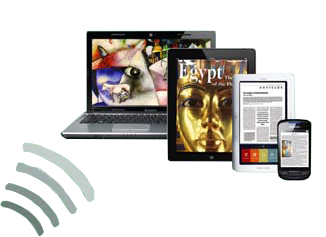
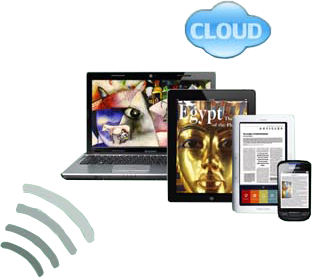
KIC_Bookeye_4_Searchable_Collections

diff --git a/Image Access Site/pages/KIC_Bookeye_4_Searchable_Collections.html b/Image Access Site/pages/KIC_Bookeye_4_Searchable_Collections.html
@@ -5,7 +5,8 @@
     <meta name="viewport" content="width=device-width, initial-scale=1">
     <title>KIC Bookeye 4 :: Image Access 2016</title>
     <link rel="stylesheet" type="text/css" href="../css/all.css">
-     <link rel="shortcut icon" type="image/x-icon" href="../images/icon.png">
+    <link rel="stylesheet" type="text/css" href="../css/kic-bookeye-4-searchable-collections.css">
+    <link rel="shortcut icon" type="image/x-icon" href="../images/icon.png">
     <script src="../js/jquery-1.12.2.min.js" type="text/javascript"></script>
     <script src="../js/include.js" type="text/javascript"></script>
 </head>
@@ -21,7 +22,8 @@
     <ul class="leftsidemenu">
         <li><a href="KIC_Bookeye_4.html">KIC Bookeye 4</a></li>
         <li><a href="KIC_Bookeye_4_Scan_Copy_Fax.html">Scan, Copy, Fax</a></li>
-        <li class="selected"><a href="KIC_Bookeye_4_Searchable_Collections.html">KIC Makes Print Collections Searchable</a></li>
+        <li class="selected"><a href="KIC_Bookeye_4_Searchable_Collections.html">KIC Makes Print Collections
+            Searchable</a></li>
         <li><a href="KIC_Bookeye_4_Beauty_Images.html">Beautiful Images – Fast and Easy</a></li>
         <li><a href="KIC_Bookeye_4_Face_Down_or_Face_Up.html">Scanning Face-Down or Face-Up</a></li>
         <li><a href="KIC_Bookeye_4_True_2_Touch.html">True 2 Touch User Interface</a></li>
@@ -36,27 +38,110 @@
 
     </ul>
     <div class="infoblock">
-        <img src="../images/JPGs%20for%20KIC%20Bookeye%204%20Brochure/KIC%20Brochure%207.png" width="" height="" alt="123">
+
         <!--<h2>KIC Makes Your Print Collections Searchable</h2>-->
         <!--<h3 style="font-style: italic;">Search hundreds of pages of PDF or text files created in just minutes using KIC-->
-            <!--Bookeye 4</h3>-->
+        <!--Bookeye 4</h3>-->
         <!--Users need only locate the volume(s) that they expect to contain the information they are seeking, scan selected-->
         <!--sections and output either a searchable PDF file or a text file.-->
         <!--These files can easily be searched for various keywords.-->
         <!--Keyword searching is becoming an indispensable capability that significantly improves the quality and efficiency-->
         <!--of researching print collections.-->
         <!--<ul>-->
-            <!--<li>Access more sources DIGITALLY</li>-->
-            <!--<li>Find information faster</li>-->
-            <!--<li>Deliver results in digital form</li>-->
-            <!--<li>Get your research in digital form</li>-->
+        <!--<li>Access more sources DIGITALLY</li>-->
+        <!--<li>Find information faster</li>-->
+        <!--<li>Deliver results in digital form</li>-->
+        <!--<li>Get your research in digital form</li>-->
         <!--</ul>-->
         <!--<h3>1) Scan selected excerpts from multiple sources in just minutes.-->
-            <!--<br>2) Output text or searchable PDF directly to a tablet, e-reader, PC, smart phone, Cloud storage, USB, or-->
-            <!--email.</h3>-->
+        <!--<br>2) Output text or searchable PDF directly to a tablet, e-reader, PC, smart phone, Cloud storage, USB, or-->
+        <!--email.</h3>-->
         <!--<img src="../images/Dlsg/KIC/Click_Page7_MainPicture.png">-->
         <!--<h3>3) Search all scanned pages in an instant for various key words and be on your way.</h3>-->
         <!--<img src="../images/Dlsg/KIC/Click_Page3_Bottom_NewsPapers.png">-->
+        <h1 class="infoblock__block-title2">KIC Makes Your Print Collections Searchable</h1>
+        <h3 class="infoblock__block-title">Search hundreds of pages of PDF or text files created in just minutes using
+            KIC Click Mini</h3>
+        <div class="infoblock__text-block">
+            <p class="block_text1" id="CCM-0303">Users need only locate the volume(s) that they expect to contain
+                the information they are seeking, scan selected sections and
+                output either a searchable PDF file or a text file. These files can
+                easily be searched for various keywords.</p>
+            <p class="block_text1" id="CCM-0304">Keyword searching is becoming an indispensable capability that
+                significantly improves the quality and efficiency of researching
+                print collections.</p>
+        </div>
+        <div class="infoblock__text-block-2">
+            <ul class="infoblock__peppermint2">
+                <li>Access more sources DIGITALLY</li>
+                <li>Find information faster</li>
+                <li>Deliver results in digital form</li>
+                <li>Get your research in digital form</li>
+            </ul>
+        </div>
+        <div>
+            <div class="infoblock__block">
+                <img class="infoblock__number"
+                     src="../images/JPGs%20for%20KIC%20Click%20&%20Click%20Mini%20Brochure/KIC Click and Click Mini Brochure3_1.png">
+                <div class="infoblock__block-1">
+                    <p class="block_text2">Scan selected excerpts from
+                        multiple sources in just minutes.</p>
+                </div>
+                <img class="infoblock__img"
+                     src="../images/JPGs%20for%20KIC%20Click%20&%20Click%20Mini%20Brochure/KIC Click and Click Mini Brochure3_devices.png">
+            </div>
+            <div class="infoblock__block">
+                <img class="infoblock__number"
+                     src="../images/JPGs%20for%20KIC%20Click%20&%20Click%20Mini%20Brochure/KIC Click and Click Mini Brochure3_2.png">
+                <div class="infoblock__block-1">
+                    <p class="block_text2">Output text or searchable PDF
+                        directly to a tablet, e-reader, PC
+                        or smart phone.</p>
+                </div>
+                <img class="infoblock__img"
+                     src="../images/JPGs%20for%20KIC%20Click%20&%20Click%20Mini%20Brochure/KIC Click and Click Mini Brochure3_images.png">
+            </div>
+        </div>
+
+        <img class="infoblock__img" id="infoblock__man_pdf"
+             src="../images/JPGs%20for%20KIC%20Click%20&%20Click%20Mini%20Brochure/KIC Click and Click Mini Brochure3_men.png">
+
+
+        <div class="infoblock__block-3">
+            <img class="infoblock__number"
+                 src="../images/JPGs%20for%20KIC%20Click%20&%20Click%20Mini%20Brochure/KIC Click and Click Mini Brochure3_3.png">
+            <div>
+                <p class="block_text2" id="CCM-0308">Search all scanned pages
+                    in an instant for various
+                    key words and...</p>
+            </div>
+        </div>
+        <div>
+            <div id="infoblock__management">
+                <h1 class="infoblock__block-title2">KIC Fleet Management</h1>
+                <h3 class="infoblock__block-title">Monitor Usage Statistics at a Glance</h3>
+                <p class="block_text23" id="BE4-0919">Control,update and monitor your KIC systems remotely. To
+                    better serve your patrons, it is important to know which KIC
+                    systems are used the most and at what times during the
+                    day and week, and which are used the least. All usage statistics
+                    can help you to determine the best KIC configuration
+                    for each site. And to make it easier to navigate from KIC to
+                    KIC system, KIC Fleet Manager allows you to select a particular
+                    KIC system via either of two methods: a map or a list.</p>
+                <p class="block_text23" id="BE4-0920">With over ten years serving libraries, KIC is the most stable
+                    product available today. However, DLSG engineers inces- santly
+                    work to improve KIC and support the growing changing
+                    digital world. DLSG offers improved software re-</p>
+                <p class="block_text23" id="BE4-0921">gularly, and in order to make it easier to deploy updates, KIC
+                    Fleet
+                    Manager lets you
+                    update KIC systems remotely. For example, a recently released feature
+                    lets you turn KIC systems on and off on demand or on a schedule set by a
+                    central control panel.</p>
+            </div>
+            <img class="infoblock__diagram"
+                 src="../images/JPGs%20for%20KIC%20Click%20&%20Click%20Mini%20Brochure/KIC Click and Click Mini Brochure3_img2.png">
+        </div>
     </div>
 </div>
 <footer>

diff --git a/Image Access Site/css/kic-bookeye-4-searchable-collections.css b/Image Access Site/css/kic-bookeye-4-searchable-collections.css
@@ -1,0 +1,79 @@
+.infoblock__block-title2{
+    font: 14px "Arial",Helvetica,Arial,Verdana,sans-serif;
+    font-size: 39px;
+    font-weight: bold;
+    color:#000000;
+    text-shadow: none;
+    text-align: center;
+}
+.infoblock__block-title{
+    font: 14px "Arial",Helvetica,Arial,Verdana,sans-serif;
+    font-style: italic;
+    font-size: 24px;
+    color:#000000;
+    text-shadow: none;
+    font-weight: normal;
+    text-align: center;
+}
+.infoblock__text-block {
+    float: left;
+    width: 55%;
+}
+.infoblock__text-block-2{
+    float: left;
+    width: 45%;
+    padding-left: 5%;
+    padding-bottom: 5%;
+}
+.infoblock .infoblock__peppermint2 {
+    list-style-image: url(../images/KIC_Click_and_Click_Mini_Brochure3_blue-bullet2.png);
+}
+div .infoblock__block {
+    padding-top: 0%;
+    float:left;
+    width: 49%;
+}
+
+.infoblock__block .infoblock__number{
+     width: auto;
+     float:left;
+ }
+.infoblock__block-3 .infoblock__number{
+    width: auto;
+    float:left;
+}
+
+.infoblock__block-1{
+    float:left;
+    width: 70%;
+
+}
+
+.block_text2{
+    padding-top: 3%;
+}
+
+.infoblock__block-3 div .block_text2{
+    width: 50%;
+    padding-top: 1%;
+}
+.infoblock .infoblock__img{
+    width: auto;
+}
+#infoblock__man_pdf{
+    padding-left: 5%;
+}
+
+.infoblock__block-3{
+    position: absolute;
+    bottom: 35%;
+
+}
+div #infoblock__management{
+    width: 50%;
+    float:left;
+}
+div .infoblock__diagram{
+    width: 45%;
+    float:left;
+}

diff --git a/Image Access Site/css/kic-bookeye-4.css b/Image Access Site/css/kic-bookeye-4.css
@@ -57,21 +57,13 @@
      font-size: 12px;
 }
 
-.infoblock #infoblock__cloud{
-    width: 8%;
-    /* padding-top: 10%; */
-    /* float: right; */
-    /* overflow: hidden; */
-    position: absolute;
-    right: 10%;
-    padding-top: 2%;
-}
 
 .infoblock #infoblock__devices{
     position: absolute;
     width: 23%;
     left: 70%;
-    top: 26%;
+    top: 24%;
+
     height: auto;
 }
 

diff --git a/Image Access Site/pages/KIC_Bookeye_4.html b/Image Access Site/pages/KIC_Bookeye_4.html
@@ -51,8 +51,6 @@
             <p>    &mdash; Bill Hair, Associate Dean, Baylor University</p>
 
         </div>
-        <img id="infoblock__cloud" src="../images/JPGs%20for%20BSCAN%20ILL/cloud.png"
-             alt="123">
 
 
         <img id="infoblock__devices" src="../images/JPGs%20for%20KIC%20Bookeye%204%20Brochure/KIC_smart_doc_devices.png"
